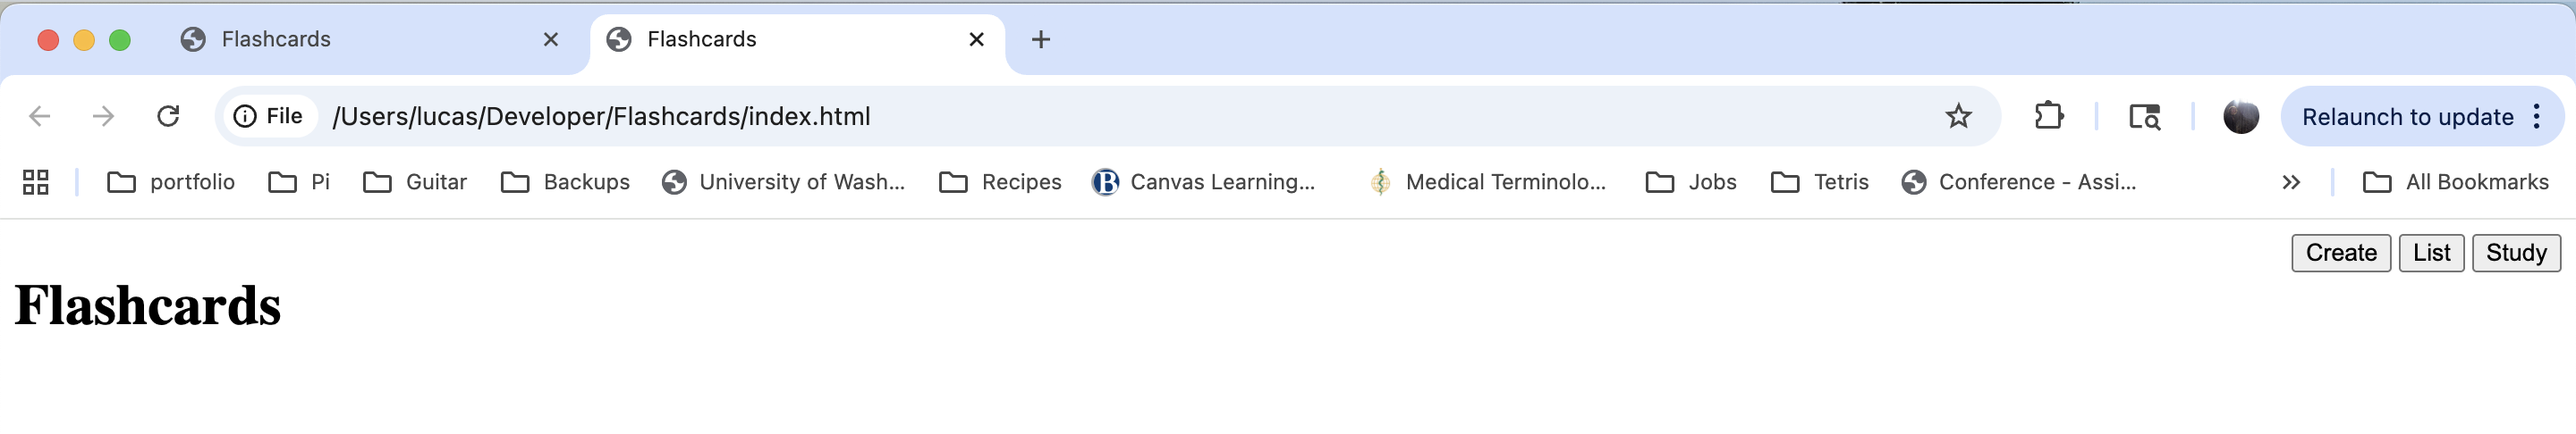
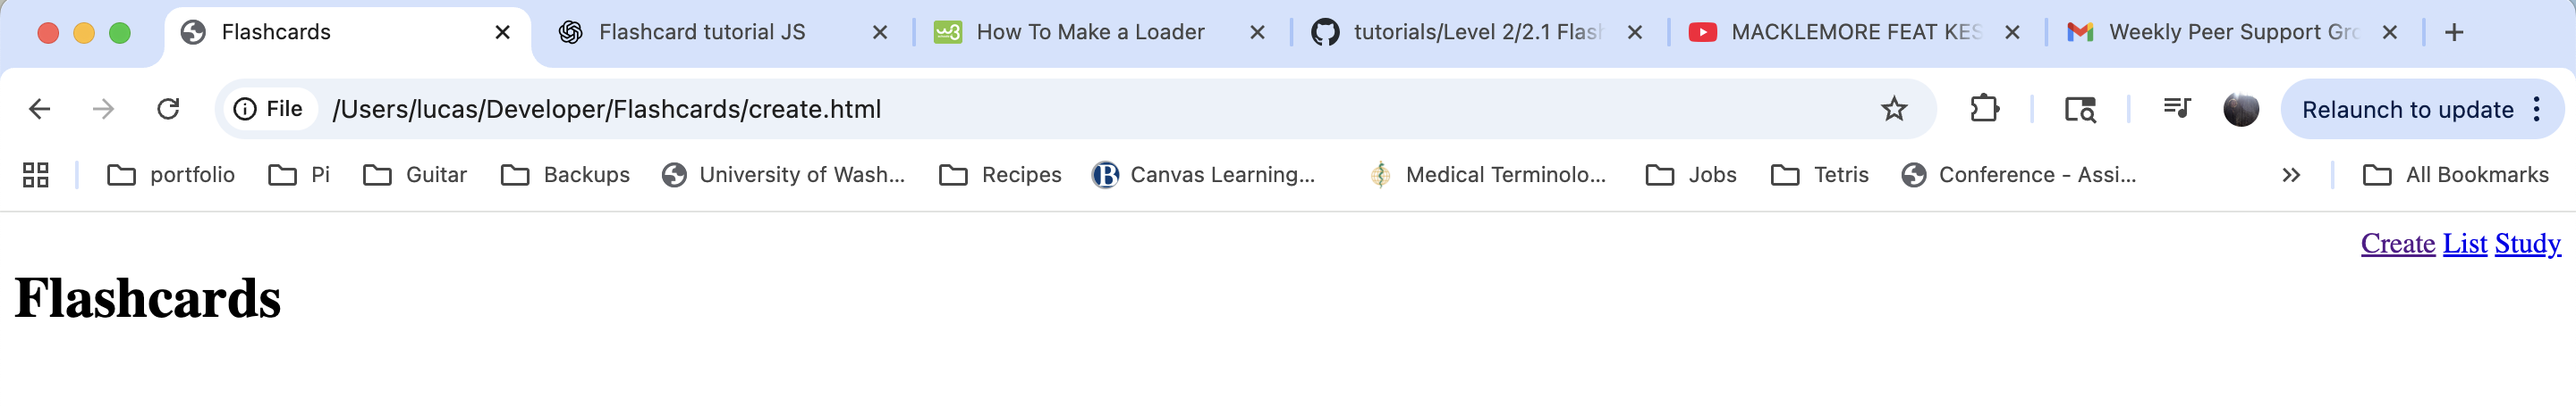
Finish 2.1 basic setup

diff --git a/Level 2/2.1 Flashcard app basic setup.md b/Level 2/2.1 Flashcard app basic setup.md
@@ -122,7 +122,7 @@ header {
 
 Now you will notice your buttons are still grey so lets fix that by adding another attribute to our buttons:
 ```
-nav button {
+nav a {
     background-color: transparent;
 }
 ```
@@ -130,7 +130,7 @@ nav button {
 Now let's make the buttons have a better looking border:
 
 ```
-nav button {
+nav a {
     background-color: transparent;
     border: 1px solid #334155;
     border-radius: 5px;
@@ -140,13 +140,26 @@ nav button {
 Also let's make it have a pointer for the cursor when we hover over the buttons:
 
 ```
-nav button {
+nav a {
     background-color: transparent;
     border: 1px solid #334155;
     border-radius: 5px;
     cursor: pointer;
 }
 ```
+
+Finally, let's remove the text decorations and change the color:
+```
+nav a {
+    background-color: transparent;
+    border: 1px solid #334155;
+    border-radius: 5px;
+    cursor: pointer;
+    text-decoration: none;
+    color: #334155;
+}
+```
+
 Now take a step back and admire your work.
 
-Now let's make our other pages. Simply copy the pages by right clicking
+Now let's make our other pages. Simply copy the pages by right clicking and selecting copy and then right clicking and selecting paste. Then lets rename one to ```create.html``` and the other to ```study.html```. Now you should be able to navigate between the pages... Thanks, for following along!
